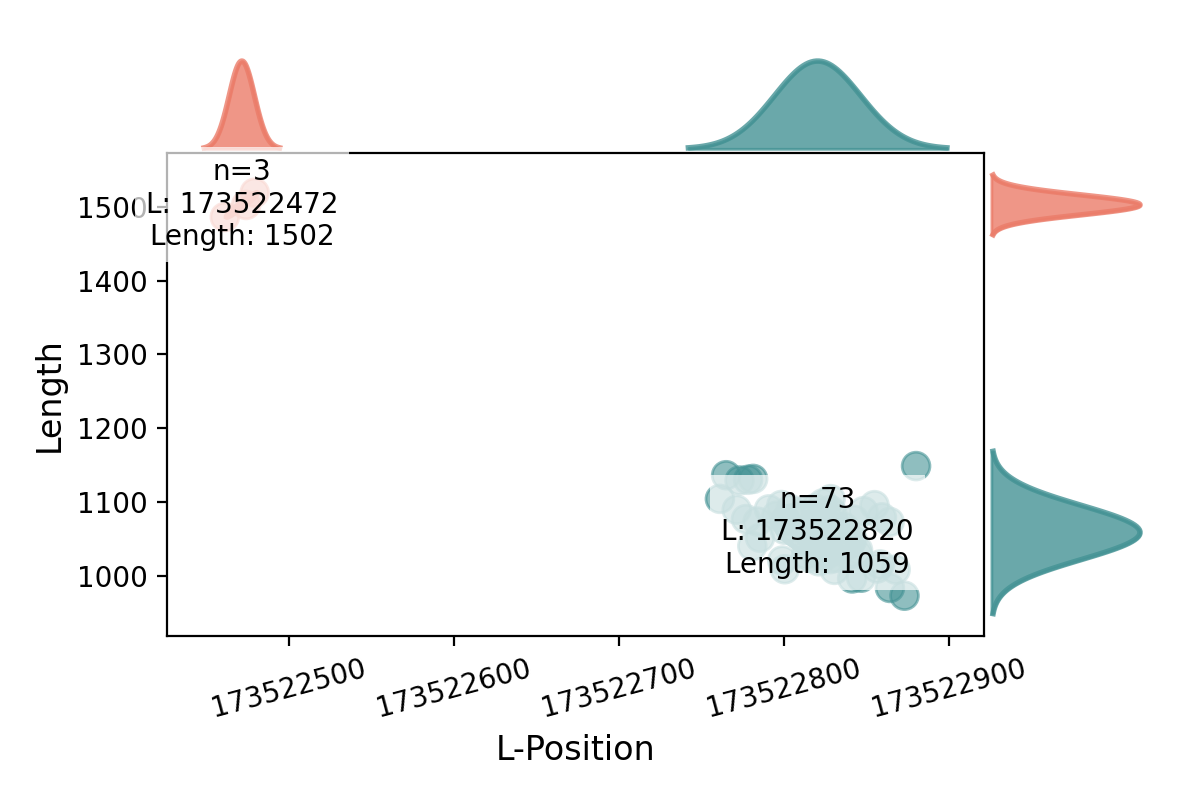
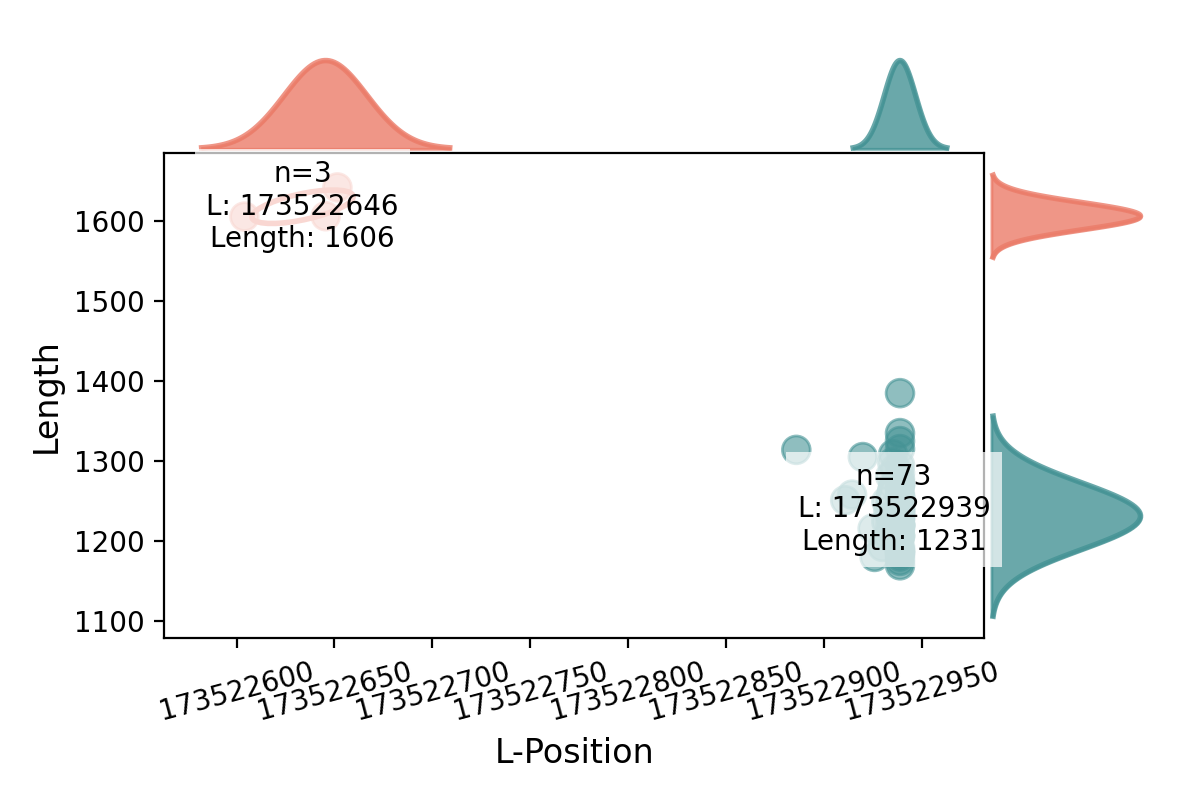
update test run

Changed region(s): [[0.0308, 0.0625, 0.9558, 0.9688], [0.555, 0.0625, 0.8017, 0.1875], [0.8017, 0.2188, 0.9558, 0.3125]]

diff --git a/src/utils/viz.py b/src/utils/viz.py
@@ -450,7 +450,7 @@ def plot_2d_coords(
         for evidence in mode:
             ax1_vals = [GMM_AXES[axis1](x) for x in evidence.paired_ends]
             ax2_vals = [GMM_AXES[axis2](x) for x in evidence.paired_ends]
-            x.append([np.mean(ax1_vals), np.mean(ax2_vals)])
+            x.append([np.median(ax1_vals), np.median(ax2_vals)])
             num_evidence.append(len(evidence.paired_ends))
             sem_ax1.append(sem(ax1_vals))
             sem_ax2.append(sem(ax2_vals))
@@ -507,7 +507,7 @@ def plot_2d_coords(
             ax_main.text(
                 gmm_result.mu[0][0],
                 gmm_result.mu[0][1],
-                f"n={len(mode)}\n{axis1}: {np.mean(x[:, 0]):.0f}\n{axis2}: {np.mean(x[:, 1]):.0f}",
+                f"n={len(mode)}\n{axis1}: {np.median(x[:, 0]):.0f}\n{axis2}: {np.median(x[:, 1]):.0f}",
                 # f"n={len(mode)}\n{axis1}: {np.mean(x[:, 0]):.0f}\n{axis2}: {np.mean(x[:, 1]):.0f}\nAvg. num reads/sample: {np.mean(num_evidence):.1f}\nMean insert size: {int(np.mean(mean_insert_sizes))}",
                 fontsize=10,
                 ha="center",
@@ -533,7 +533,7 @@ def plot_2d_coords(
 
         # plot the 1D gaussian distributions along the axes
         ax_xhist = ax_main.inset_axes([0, 1, 1, 0.2], sharex=ax_main)
-        mean_x, std_x = np.mean(x[:, 0]), np.std(x[:, 0])
+        mean_x, std_x = np.median(x[:, 0]), np.std(x[:, 0])
         x_vals = np.linspace(mean_x - 3 * std_x, mean_x + 3 * std_x, 100)
         zorder = 10 - i
         if show_1d_distributions and axis1_dist:
@@ -558,7 +558,7 @@ def plot_2d_coords(
 
         ax_yhist = ax_main.inset_axes([1, 0, 0.2, 1], sharey=ax_main)
         ax_yhist.set_zorder(zorder - 1)
-        mean_y, std_y = np.mean(x[:, 1]), np.std(x[:, 1])
+        mean_y, std_y = np.median(x[:, 1]), np.std(x[:, 1])
         y_vals = np.linspace(mean_y - 3 * std_y, mean_y + 3 * std_y, 100)
         if show_1d_distributions and axis2_dist:
             ax_yhist.plot(